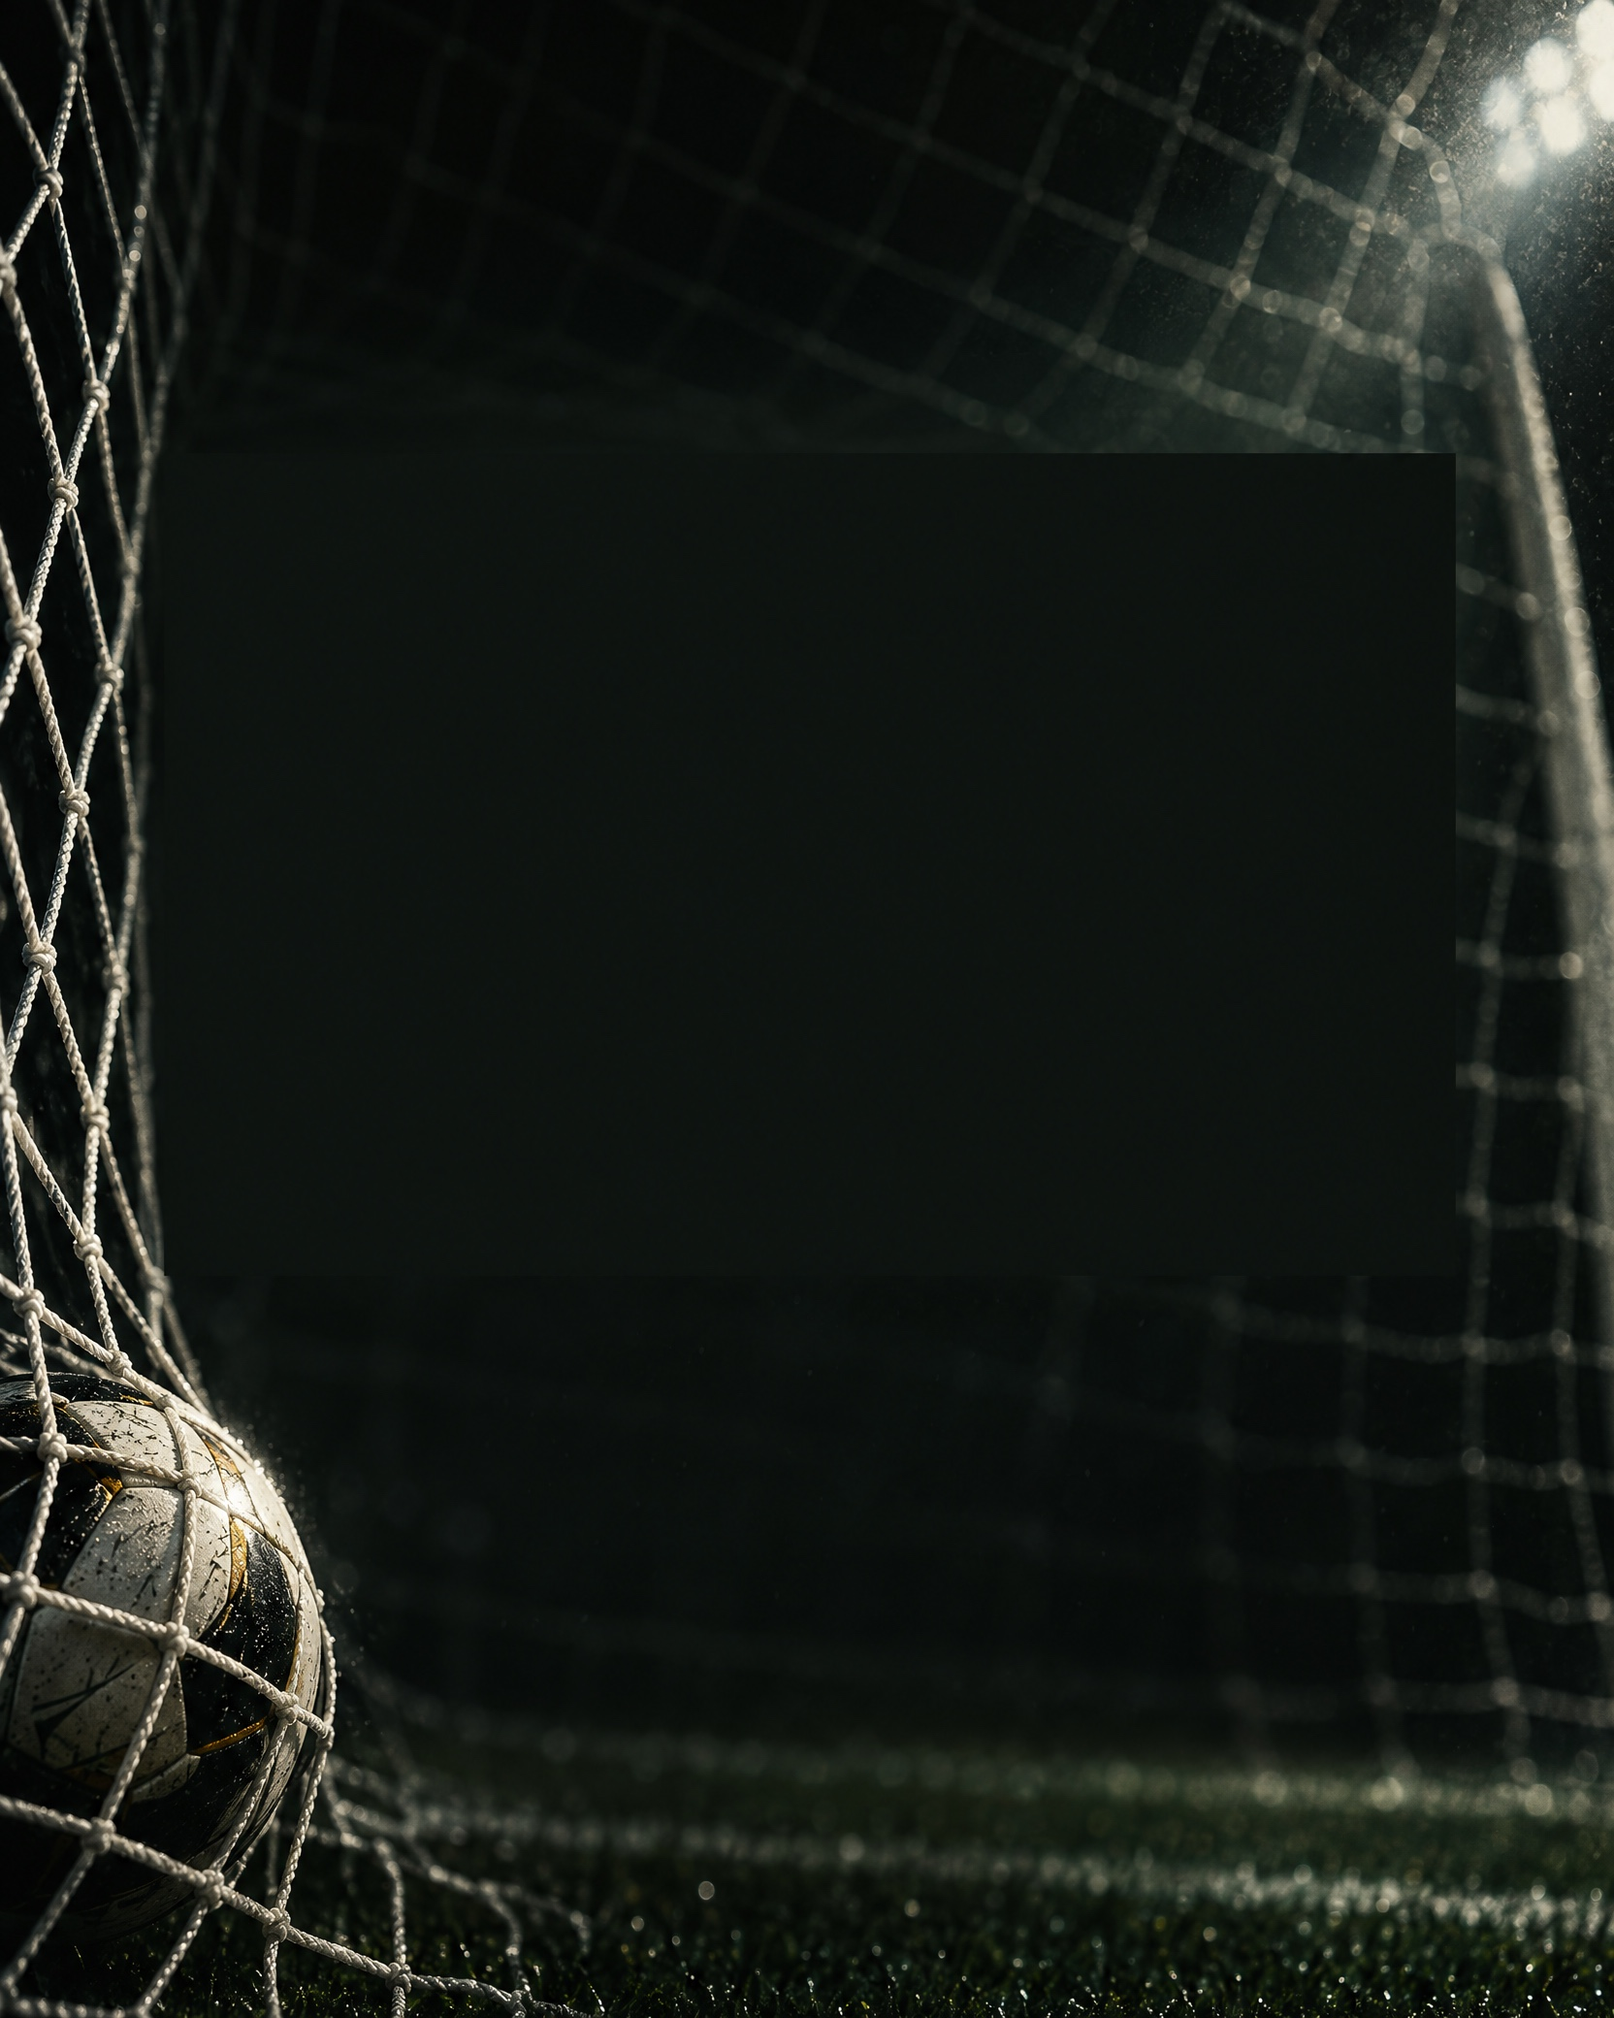
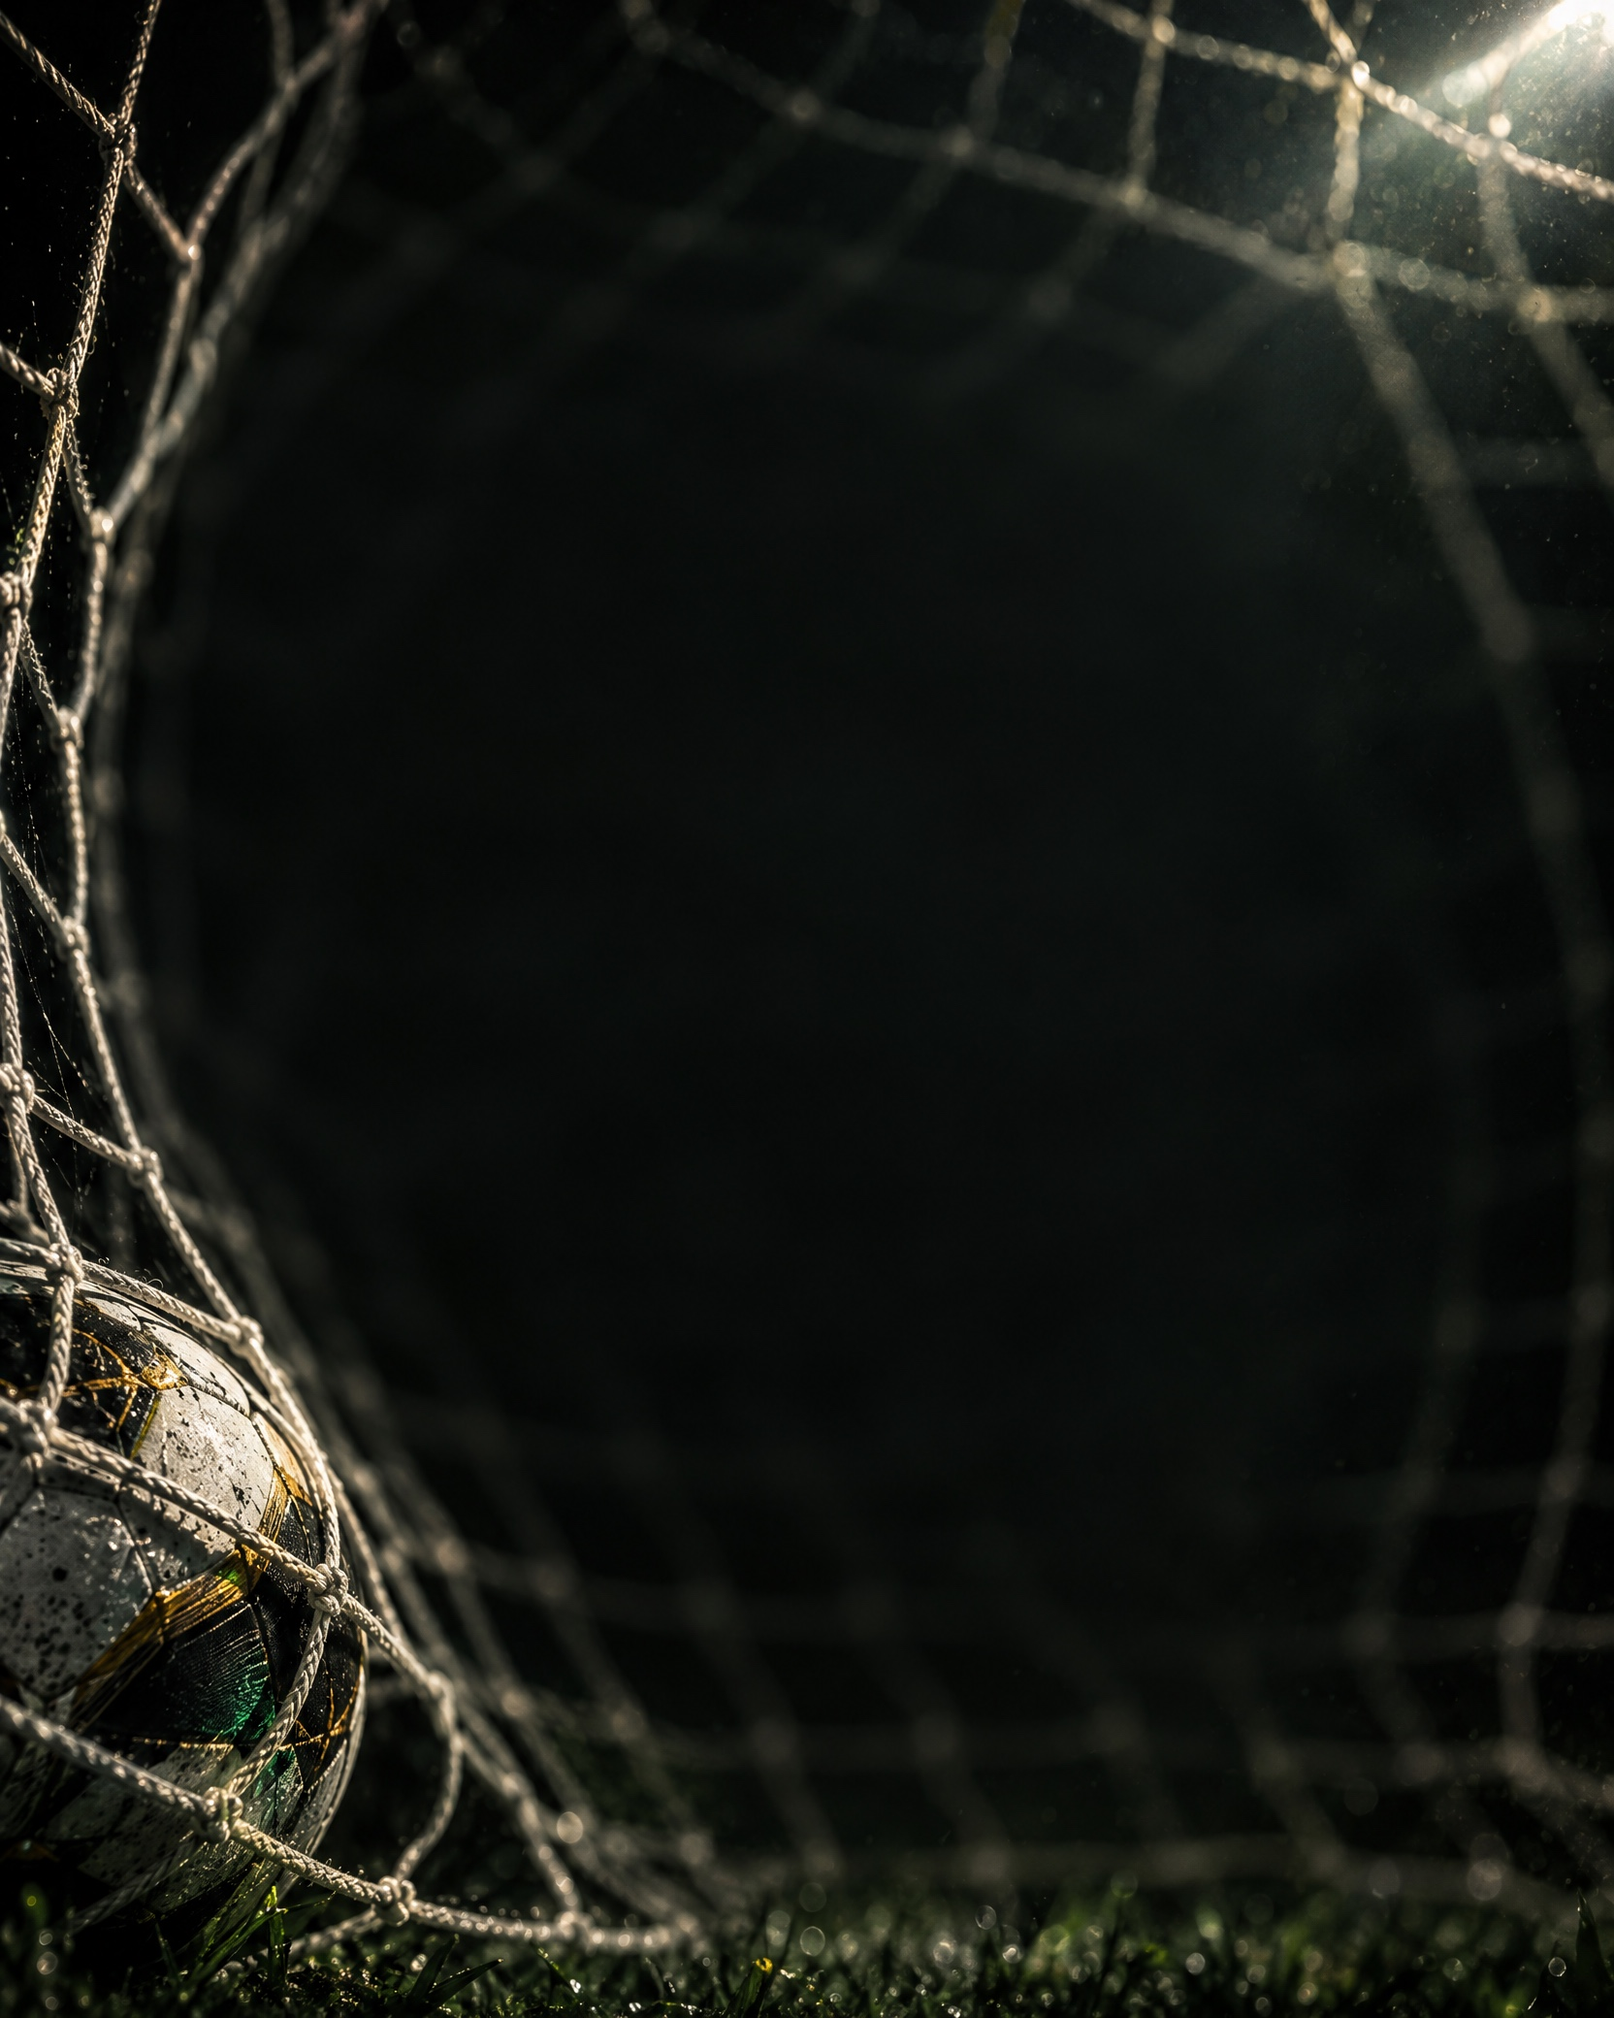
La carte de but se pose nue sur le filet, à la forme du clip
Mehdi, 18/10/2026 : « dans l'aperçu il y a un carré noir derrière qui ne
rend pas bien… tu poseras directement l'aperçu sur le gabarit, il n'aura
pas de cadre spécifique, il prendra la forme de la vidéo ».

Les plaques sont donc NUES — le filet, le ballon dans l'angle, rien
d'autre — et il y en a DEUX du même filet : la verticale pour un clip de
X, la large pour un clip YouTube. Une seule obligerait à caler l'un des
deux dans un cadre qui n'est pas le sien, ce qui est précisément ce qu'on
vient de retirer. La vignette se pose à sa propre forme, décollée des
mailles par une ombre portée et un filet doré d'un trait : sans eux, un
clip sombre s'y fond.

DEUX DÉFAUTS ATTRAPÉS AU RENDU, et le second vaut la leçon :

· Sur la plaque large, la ligne de compétition passait SOUS la vignette et
  disparaissait. La zone commence maintenant plus bas.
· La vignette d'un SHORT arrive en 16:9 avec le clip vertical coincé au
  milieu d'un recadrage large. J'ai d'abord tenté de détecter ces bandes à
  leur manque de détail — heuristique posée au jugé, qui n'a pas mordu et
  qui risquait de rogner de vraies images larges. Elle est retirée.
  YouTube publie la vignette AU FORMAT D'ORIGINE sous `oardefault.jpg` :
  1080×1920 pour un Short, 404 pour une vidéo ordinaire. Mesuré sur trois
  vidéos. Une adresse qui répond ou non vaut mieux qu'une mesure qui
  devine — `premiereImage()` essaie la chaîne dans l'ordre, et les deux
  cartes s'en servent.

diff --git a/studio/draw-gabarits.js b/studio/draw-gabarits.js
@@ -1596,7 +1596,33 @@ function sansBandes(img) {
   if (plausible(gauche, droite) && haut + bas < N * 0.03) {
     return [Math.round(W * (gauche / N)), 0, Math.round(W * ((v1 - v0 + 1) / N)), H]
   }
+
   return [0, 0, W, H]
+}
+
+/**
+ * LA PREMIÈRE VIGNETTE QUI CHARGE, DANS L'ORDRE DONNÉ.
+ *
+ * YouTube publie une vignette AU FORMAT D'ORIGINE sous `oardefault.jpg` :
+ * 1080×1920 pour un Short, et 404 pour une vidéo ordinaire. C'est le seul
+ * signal déterministe du format réel — mesuré le 18/10 sur trois vidéos.
+ *
+ * Sans elle, `maxresdefault` rend un 16:9 dans lequel le clip vertical est
+ * encadré de part et d'autre par un recadrage large, et la carte sortait
+ * avec une vidéo verticale coincée au milieu d'une image large (le but
+ * d'Abde). J'avais d'abord tenté de détecter ces bandes à leur manque de
+ * détail : posée au jugé, l'heuristique n'a pas mordu, et elle risquait de
+ * rogner de vraies images larges. Une adresse qui répond ou non vaut mieux
+ * qu'une mesure qui devine.
+ */
+async function premiereImage(sources) {
+  for (const src of (Array.isArray(sources) ? sources : [sources]).filter(Boolean)) {
+    const im = await loadImgOuRepli(src, null)
+    // Une vignette absente revient parfois en 120×90 (l'image « pas de
+    // miniature » de YouTube) plutôt qu'en 404 : on l'écarte aussi.
+    if (im && (im.width > 200 || im.height > 200)) return im
+  }
+  return null
 }
 
 /** Un rectangle à coins arrondis, posé sur le chemin courant. */
@@ -1658,7 +1684,7 @@ export async function gabaritOgVideo(d = {}) {
   ctx.drawImage(f, (W - f.width * ech) / 2, (H - f.height * ech) / 2, f.width * ech, f.height * ech)
 
   // ── LA FENÊTRE, AU FORMAT RÉEL DE LA VIGNETTE ───────────────────────
-  const vign = d.vignette ? await loadImgOuRepli(d.vignette, d.vignetteRepli || null) : null
+  const vign = await premiereImage(d.vignettes ?? [d.vignette, d.vignetteRepli])
   const [sx, sy, sw, sh] = vign ? sansBandes(vign) : [0, 0, 16, 9]
   const MARGE = 44, MAXW = 700, MAXH = H - MARGE * 2
   const rapport = sh ? sw / sh : 16 / 9
@@ -1880,101 +1906,99 @@ export async function gabaritResumesDuJour(d = {}) {
  */
 export async function gabaritButFilet(d = {}) {
   registerBrandFonts()
-  const W = 1080, H = 1350
   const lang = ['fr', 'en', 'ar'].includes(d.lang) ? d.lang : 'ar'
   const rtl = lang === 'ar'
-  const ligne = (t, x, y, o = {}) => (rtl ? ar(ctx, t, x, y, o) : txt(ctx, t, x, y, o))
 
-  const c = createCanvas(W, H); const ctx = ctx2d(c)
-  await poserPlaque(ctx, 'but-filet', W, H)
-
-  const [zx, zy, zw, zh] = CASES['but-filet'].fenetre.map(e45)
-  const [, ly, , lh] = CASES['but-filet'].legende.map(e45)
-
-  // ── L'EN-TÊTE ────────────────────────────────────────────────────────
-  paintLogo(ctx, 40, 40, 104)
-  if (d.competition) ligne(d.competition, W / 2, 112, { size: 34, color: OR })
-
-  // ── LA FENÊTRE, AU FORMAT RÉEL DE LA VIGNETTE ────────────────────────
-  const vign = d.vignette ? await loadImgOuRepli(d.vignette, d.vignetteRepli || null) : null
+  // ── LA CARTE PREND LA FORME DU CLIP ──────────────────────────────────
+  // Un but de X arrive en 9:16, un but de YouTube en 16:9. Une seule
+  // plaque obligerait à caler l'un des deux dans un cadre qui n'est pas
+  // le sien — c'est précisément ce que Mehdi a refusé. Il y a donc deux
+  // plaques du même filet, et on choisit celle qui épouse le clip.
+  const vign = await premiereImage(d.vignettes ?? [d.vignette, d.vignetteRepli])
   const [sx, sy, sw, sh] = vign ? sansBandes(vign) : [0, 0, 16, 9]
   const rapport = sh ? sw / sh : 16 / 9
+  const large = rapport >= 1.25
+  const plaque = large ? 'but-filet-large' : 'but-filet'
+  const W = large ? 1200 : 1080
+  const H = large ? 675 : 1350
+
+  const c = createCanvas(W, H); const ctx = ctx2d(c)
+  const ligne = (t, x, y, o = {}) => (rtl ? ar(ctx, t, x, y, o) : txt(ctx, t, x, y, o))
+  await poserPlaque(ctx, plaque, W, H)
+
+  const { zone, legende } = CASES[plaque]
+  const zx = zone[0] * W, zy = zone[1] * H, zw = zone[2] * W, zh = zone[3] * H
+
+  // ── L'EN-TÊTE ────────────────────────────────────────────────────────
+  paintLogo(ctx, large ? 34 : 40, large ? 30 : 40, large ? 84 : 104)
+  if (d.competition) {
+    ligne(d.competition, W / 2, large ? 46 : 104, { size: large ? 28 : 34, color: OR })
+  }
+
+  // ── LA VIGNETTE, POSÉE NUE ET À SA PROPRE FORME ──────────────────────
+  // Aucun cadre dessiné sur la plaque, aucun fond ajouté : l'image occupe
+  // la zone libre au plus grand, et ce qui dépasse autour reste le filet.
+  // Un simple filet doré d'un trait la détache des mailles — sans lui, un
+  // clip sombre s'y fond.
   let fw = zw, fh = zw / rapport
   if (fh > zh) { fh = zh; fw = zh * rapport }
   fw = Math.round(fw); fh = Math.round(fh)
   const fx = Math.round(zx + (zw - fw) / 2), fy = Math.round(zy + (zh - fh) / 2)
-  const R = 14
+  const R = 12
 
-  // ── LA DALLE NE RESTE JAMAIS NUE ─────────────────────────────────────
-  // La zone de la plaque est en 1,63 ; un clip de X arrive en 9:16 et n'en
-  // occupe qu'un tiers. La première version laissait le rectangle mat à
-  // découvert de part et d'autre, avec son arête franche : la carte
-  // semblait inachevée. On remplit donc toute la zone d'un fond tiré de
-  // la vignette elle-même, réduit à vingt-quatre pixels puis réétiré —
-  // node-canvas n'a pas de flou, mais un aller-retour d'échelle en tient
-  // lieu — et noyé sous un voile. Sur un clip 16:9 la fenêtre le
-  // recouvre entièrement : il ne se voit que quand il sert.
-  if (vign && fw < zw - 8) {
-    const N = 24
-    const mini = createCanvas(N, Math.max(2, Math.round(N / rapport)))
-    mini.getContext('2d').drawImage(vign, sx, sy, sw, sh, 0, 0, mini.width, mini.height)
+  if (vign) {
     ctx.save()
-    ctx.beginPath(); ctx.rect(zx, zy, zw, zh); ctx.clip()
-    const r = Math.max(zw / mini.width, zh / mini.height)
-    const lw = mini.width * r, lh = mini.height * r
-    ctx.drawImage(mini, zx + (zw - lw) / 2, zy + (zh - lh) / 2, lw, lh)
-    // Le voile est ÉPAIS : un gazon plein soleil reste lumineux même très
-    // réduit, et à 0,62 la dalle virait au bloc vert qui mangeait la
-    // fenêtre. À 0,84 il ne reste qu'une ombre colorée, et l'œil va droit
-    // au clip.
-    ctx.fillStyle = 'rgba(5,8,15,0.84)'; ctx.fillRect(zx, zy, zw, zh)
+    // Une ombre portée sous la vignette : elle la décolle du filet mieux
+    // qu'un trait, et sans rien ajouter de visible.
+    ctx.shadowColor = 'rgba(0,0,0,0.75)'; ctx.shadowBlur = 38; ctx.shadowOffsetY = 10
+    cheminArrondi(ctx, fx, fy, fw, fh, R); ctx.fillStyle = '#05080F'; ctx.fill()
+    ctx.restore()
+    ctx.save()
+    cheminArrondi(ctx, fx, fy, fw, fh, R); ctx.clip()
+    const r = Math.max(fw / sw, fh / sh)
+    ctx.drawImage(vign, sx, sy, sw, sh, fx + (fw - sw * r) / 2, fy + (fh - sh * r) / 2, sw * r, sh * r)
+    ctx.restore()
+    ctx.save()
+    cheminArrondi(ctx, fx, fy, fw, fh, R)
+    ctx.strokeStyle = 'rgba(204,172,97,0.85)'; ctx.lineWidth = 2; ctx.stroke()
     ctx.restore()
   }
 
+  // Le bouton de lecture, dimensionné par la vignette.
+  const bx = fx + fw / 2, by = fy + fh / 2
+  const RB = Math.max(40, Math.min(78, Math.round(Math.min(fw, fh) * 0.17)))
   ctx.save()
-  cheminArrondi(ctx, fx, fy, fw, fh, R); ctx.clip()
-  ctx.fillStyle = '#05080F'; ctx.fillRect(fx, fy, fw, fh)
-  if (vign) {
-    const r = Math.max(fw / sw, fh / sh)
-    ctx.drawImage(vign, sx, sy, sw, sh, fx + (fw - sw * r) / 2, fy + (fh - sh * r) / 2, sw * r, sh * r)
-  }
-  ctx.strokeStyle = 'rgba(5,8,15,0.5)'; ctx.lineWidth = 22
-  cheminArrondi(ctx, fx, fy, fw, fh, R); ctx.stroke()
-  ctx.restore()
-  ctx.save()
-  cheminArrondi(ctx, fx, fy, fw, fh, R)
-  ctx.strokeStyle = OR; ctx.lineWidth = 3; ctx.stroke()
-  ctx.restore()
-
-  // Le bouton de lecture, dimensionné par la fenêtre : sur un clip
-  // vertical elle est trois fois plus étroite, un disque fixe la
-  // boucherait.
-  const px = fx + fw / 2, py = fy + fh / 2
-  const RB = Math.max(44, Math.min(82, Math.round(Math.min(fw, fh) * 0.17)))
-  ctx.save()
-  const halo = ctx.createRadialGradient(px, py, RB * 0.6, px, py, RB * 2.1)
+  const halo = ctx.createRadialGradient(bx, by, RB * 0.6, bx, by, RB * 2.1)
   halo.addColorStop(0, 'rgba(5,8,15,0.55)'); halo.addColorStop(1, 'rgba(5,8,15,0)')
-  ctx.fillStyle = halo; ctx.beginPath(); ctx.arc(px, py, RB * 2.1, 0, Math.PI * 2); ctx.fill()
-  ctx.beginPath(); ctx.arc(px, py, RB, 0, Math.PI * 2)
+  ctx.fillStyle = halo; ctx.beginPath(); ctx.arc(bx, by, RB * 2.1, 0, Math.PI * 2); ctx.fill()
+  ctx.beginPath(); ctx.arc(bx, by, RB, 0, Math.PI * 2)
   ctx.fillStyle = 'rgba(5,8,15,0.88)'; ctx.fill()
   ctx.lineWidth = 4; ctx.strokeStyle = OR; ctx.stroke()
   const tp = RB * 0.42
   ctx.beginPath()
-  ctx.moveTo(px - tp * 0.68, py - tp); ctx.lineTo(px + tp * 1.12, py); ctx.lineTo(px - tp * 0.68, py + tp)
+  ctx.moveTo(bx - tp * 0.68, by - tp); ctx.lineTo(bx + tp * 1.12, by); ctx.lineTo(bx - tp * 0.68, by + tp)
   ctx.closePath(); ctx.fillStyle = OR; ctx.fill()
   ctx.restore()
 
   if (d.minute) {
-    txt(ctx, String(d.minute), fx + fw - 22, fy + fh - 30,
+    txt(ctx, String(d.minute), fx + fw - 18, fy + fh - 26,
         { size: Math.round(Math.min(fw, fh) * 0.1), font: 'Anton', color: CREME, align: 'right' })
   }
 
-  // ── LA LÉGENDE : qui, et contre qui ──────────────────────────────────
-  const cy = ly + lh / 2
-  if (d.buteur) ligneTenue(ctx, d.buteur, W / 2, cy - 44, W - 140, { size: 64, min: 36, color: CREME, rtl })
+  // ── LA LÉGENDE ───────────────────────────────────────────────────────
+  const cy = legende * H
+  if (d.buteur) {
+    ligneTenue(ctx, d.buteur, W / 2, cy, W - (large ? 220 : 140),
+               { size: large ? 48 : 64, min: large ? 28 : 36, color: CREME, rtl })
+  }
   const affiche = [d.home, d.away].filter(Boolean).join(' — ')
-  if (affiche) ligneTenue(ctx, affiche, W / 2, cy + 34, W - 160, { size: 32, min: 20, color: 'rgba(244,243,238,0.78)', rtl })
+  if (affiche) {
+    ligneTenue(ctx, affiche, W / 2, cy + (large ? 58 : 76), W - (large ? 240 : 160),
+               { size: large ? 26 : 32, min: 18, color: 'rgba(244,243,238,0.78)', rtl })
+  }
 
-  txt(ctx, 'pressing90.live', W / 2, H - 46, { size: 26, font: 'Archivo', color: 'rgba(244,243,238,0.5)' })
+  txt(ctx, 'pressing90.live', W / 2, H - (large ? 28 : 46),
+      { size: large ? 22 : 26, font: 'Archivo', color: 'rgba(244,243,238,0.5)' })
   return c
 }
+

diff --git a/studio/gabarits.js b/studio/gabarits.js
@@ -39,6 +39,9 @@ export const UTILE = {
   // rogner, la hauteur utile est celle du fichier.
   'resumes-du-jour': 2080,
   'but-filet': 2080,
+  // La version large, generee par accident le 18/10 et gardee : un clip
+  // 16:9 y respire, la carte epouse la forme de la video.
+  'but-filet-large': 1152,
   'ticket-gagnant': 2048,
   'ticket-gagnant-barca': 2048,
   // Plaques de but refaites le 16/10/2026 en 1080x1920 : les anciennes
@@ -96,7 +99,18 @@ export const CASES = {
   // Exprimees ici A L'ECHELLE DE LA PLAQUE ; les fonctions de dessin les
   // ramenent en 1080x1350 par le rapport 1080/1664.
   'resumes-du-jour': { filet: 403, panneau: [120, 653, 1423, 721] },
-  'but-filet': { fenetre: [160, 467, 1341, 823], legende: [96, 1456, 1472, 458] },
+  // ── LA PLAQUE DU BUT N'A PLUS DE FENETRE ────────────────────────────
+  // Mehdi, 18/10/2026 : « dans l'apercu il y'a un carre noir derriere qui
+  // ne rend pas bien... tu poseras directement l'apercu sur le gabari, il
+  // n'aura pas de cadre specifique, il prendra la forme de la video ».
+  // Les plaques sont donc nues : plus de rectangle mat, juste le filet et
+  // le ballon. Ce qui suit n'est plus une fenetre mais une ZONE LIBRE,
+  // celle ou le filet est le plus sombre et ou une image se pose sans rien
+  // masquer d'utile. La vignette y est centree A SA PROPRE FORME.
+  'but-filet': { zone: [0.09, 0.17, 0.82, 0.56], legende: 0.79 },
+  // La zone commence SOUS l'en-tete : a 0,08 la ligne de competition
+  // passait dessous et disparaissait (vu le 18/10 sur le but d'Abde).
+  'but-filet-large': { zone: [0.22, 0.15, 0.71, 0.53], legende: 0.80 },
   'but-neutre': { entete: [34, 250, 700, 160], centre: [34, 430, 700, 560], pied: [34, 1010, 700, 150] },
   'but-barca': { entete: [34, 250, 700, 160], centre: [34, 430, 700, 560], pied: [34, 1010, 700, 150] },
   'soiree-4-moments': {
